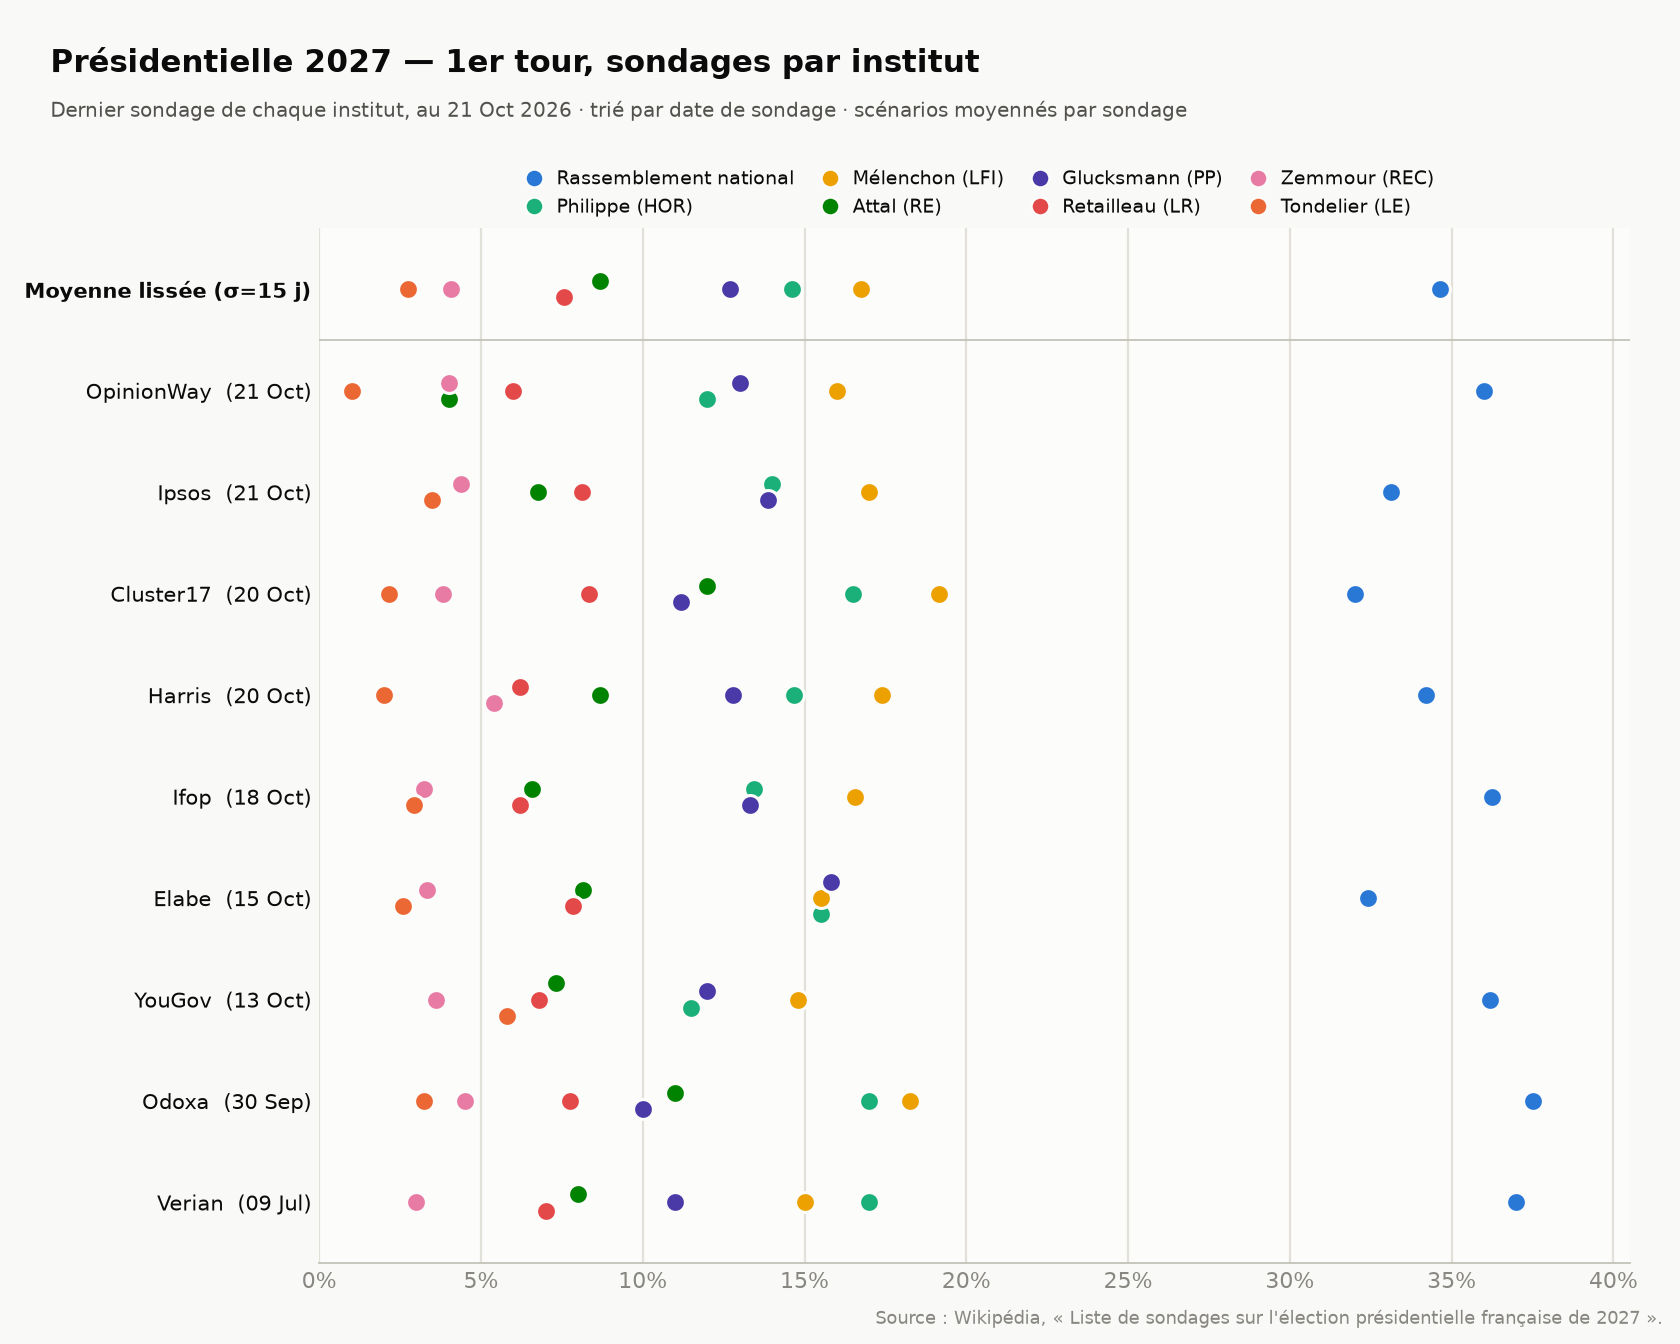
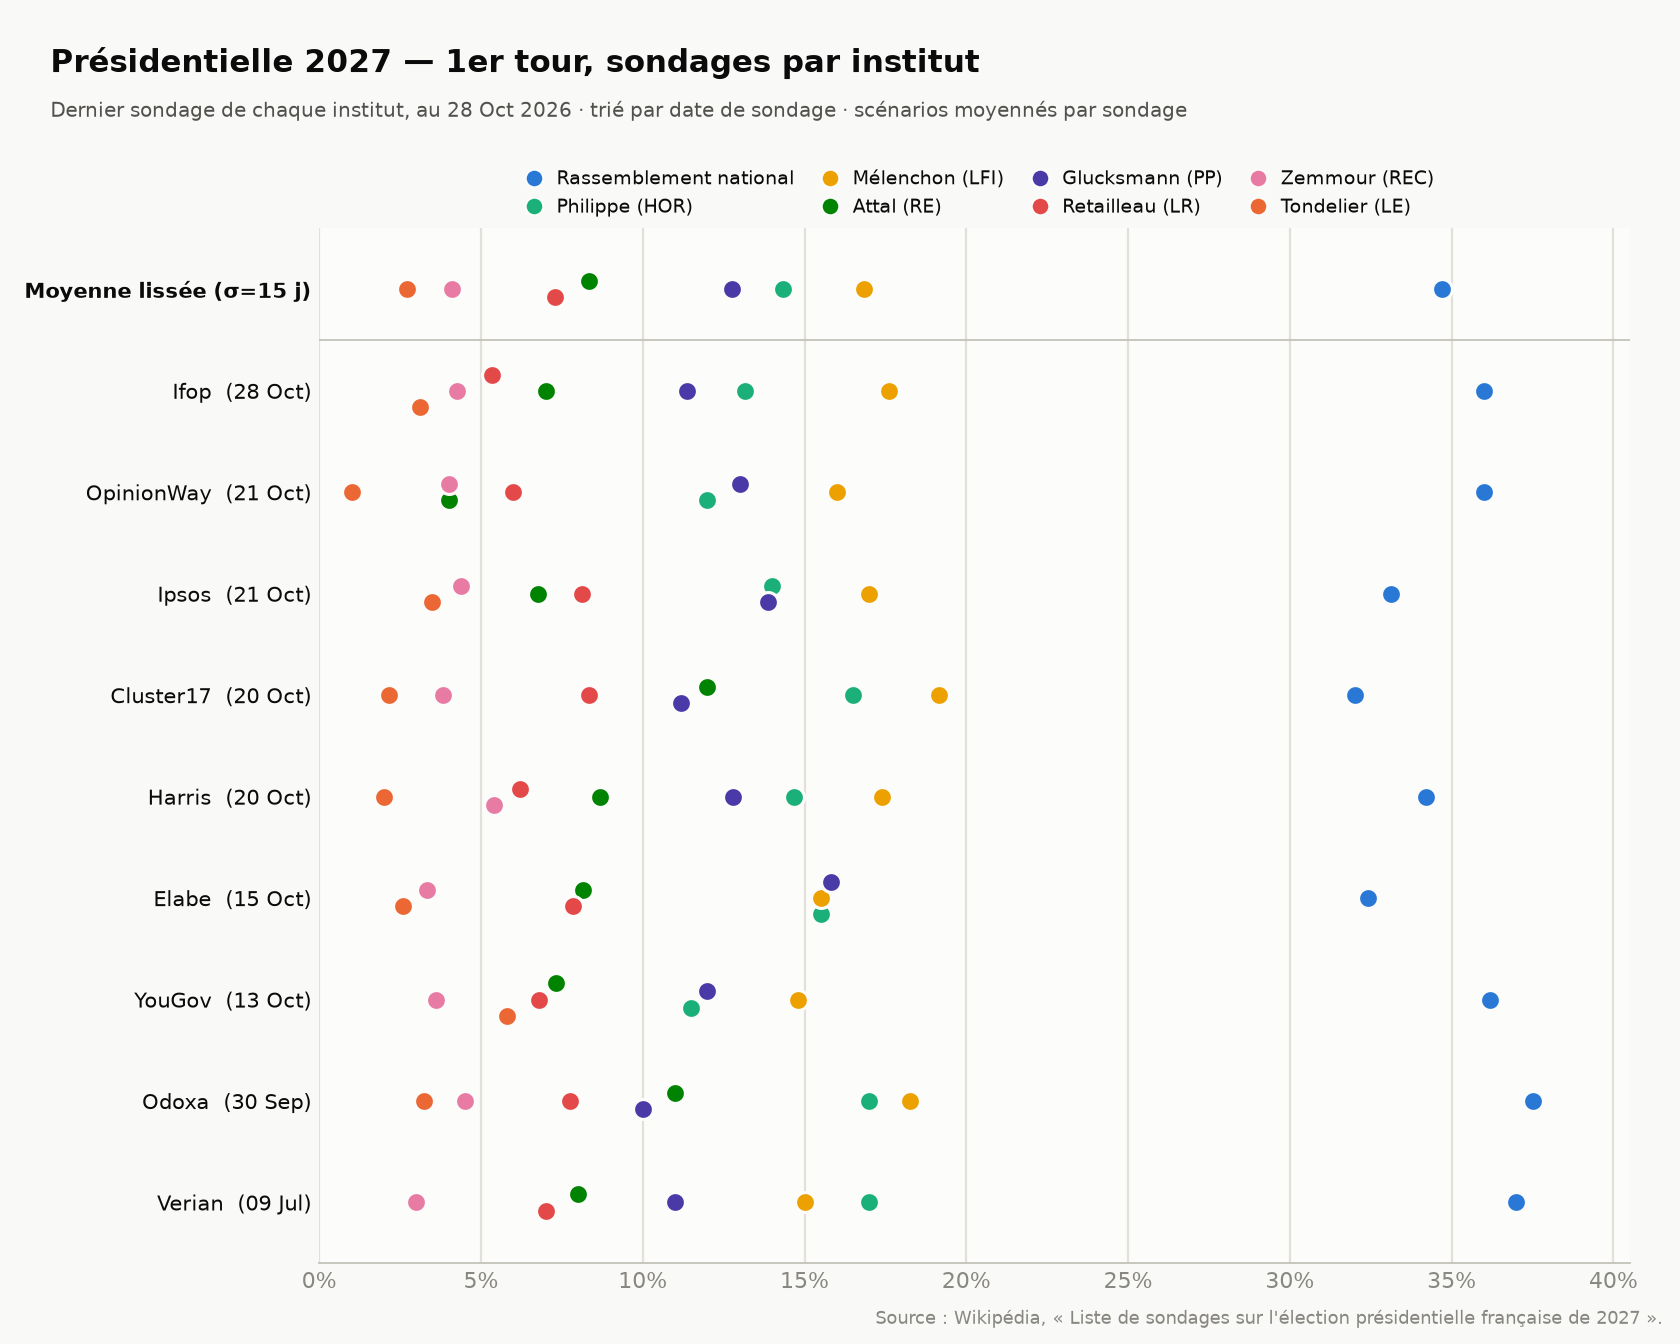
Add Ifop 27-29 October 2026 poll (n=1501)
Four scenarios covering RN (Le Pen), Melenchon, Glucksmann, Attal,
Philippe, Retailleau, Lisnard and Roussel/Tondelier/Arthaud/DupontAignan/
Zemmour; no substitutions or notes, each scenario sums to 100. Regenerate
the first-round charts. Second-round data unchanged (set comparison
matched exactly).

diff --git a/README.md b/README.md
@@ -61,7 +61,7 @@ python3 parse_polls.py /tmp/frelec_raw.wiki polls_2027_second_round.csv --second
 First-round voting-intention polls, January–October 2026, scraped from the French
 Wikipedia article
 ["Liste de sondages sur l'élection présidentielle française de 2027"](https://fr.wikipedia.org/wiki/Liste_de_sondages_sur_l%27%C3%A9lection_pr%C3%A9sidentielle_fran%C3%A7aise_de_2027)
-(pulled 2026-10-27).
+(pulled 2026-11-03).
 
 David Lisnard (Nouvelle Énergie) gained their own column starting with the
 17–19 October 2026 Ifop poll's sub-table ("Octobre-décembre 2026"). Earlier
@@ -106,7 +106,10 @@ Lecornu, etc.). A share Wikipedia reports only as an upper bound (e.g. `<1`)
 is encoded as the midpoint of that bound (`0.5`), with the original reading
 kept in `notes`.
 
-Latest polls: Ipsos (n=1500, 21–22 October, four scenarios) — RN (Le Pen)
+Latest polls: Ifop (n=1501, 27–29 October, four scenarios) — RN (Le Pen)
+35–37%, Mélenchon 17.5–18%, Glucksmann 10–13%, Philippe 9.5–15% (three
+scenarios), Attal 5–9% (two scenarios), Retailleau 4–7% (three scenarios),
+Lisnard 7–9% (three scenarios); Ipsos (n=1500, 21–22 October, four scenarios) — RN (Le Pen)
 32–33.5%, Mélenchon 17%, Glucksmann 13–15.5%, Philippe 13–15% (three
 scenarios), Attal 4–9.5% (two scenarios), Retailleau 5.5–11.5%, Lisnard 6.5%
 (one scenario); OpinionWay (n=973, 21–22 October, one scenario) — RN (Le Pen)
@@ -142,7 +145,7 @@ included in this CSV — ask if you want those pulled too.
 
 Second-round (runoff) hypothetical match-up polls, January 2024 – October 2026,
 scraped from the same Wikipedia page's "Sondages concernant le second tour"
-section (pulled 2026-10-27). Each subsection there ("Hypothèse X – Y") polls
+section (pulled 2026-11-03). Each subsection there ("Hypothèse X – Y") polls
 one specific pairing — Attal, Mélenchon, Philippe, Glucksmann and Retailleau
 each against the RN candidate (Bardella through early 2026, Le Pen from her
 2026-07-07 candidacy onward), and, from Ifop's 24–25 August 2026 poll, a first
